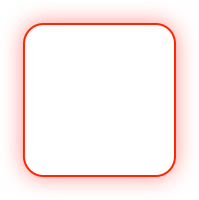
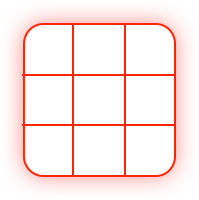
Battlefield: Can calculate grid zone hit detection

Changed region(s): [[0.1206, 0.12, 0.8744, 0.87]]

diff --git a/ttt_scene_battlefield.cpp b/ttt_scene_battlefield.cpp
@@ -5,6 +5,10 @@ SceneBattlefield::SceneBattlefield(sf::RenderWindow* xwindow, std::vector<sf::Fo
 	window = xwindow;
 	ttt_fonts = xttt_fonts;
 
+	// Create a new game instance
+	instance = new TTT_Instance();
+	std::cout << "Game instance created in battlefield" << std::endl;
+
 	// Some RenderWindow calculations
 	sf::Vector2f window_size_v2f(window->getSize());
 
@@ -25,8 +29,7 @@ SceneBattlefield::SceneBattlefield(sf::RenderWindow* xwindow, std::vector<sf::Fo
 	x_marker.setSize( sf::Vector2f(x_marker_texture_size.x, x_marker_texture_size.y) );
 	x_marker.setTextureRect( sf::IntRect(0, 0, x_marker_texture_size.x, x_marker_texture_size.y) );
 
-		//testing
-		x_marker.setPosition(getGridCoordinates(3,3));
+	x_marker.setPosition(getGridCoordinates(8,8));
 
 	sf::Texture* o_marker_texture = TTTHelpers::load_texture("assets/images/o-marker.png");
 	sf::Vector2u o_marker_texture_size = o_marker_texture->getSize();
@@ -36,10 +39,27 @@ SceneBattlefield::SceneBattlefield(sf::RenderWindow* xwindow, std::vector<sf::Fo
 	o_marker.setTextureRect( sf::IntRect(0, 0, o_marker_texture_size.x, o_marker_texture_size.y) );
 
 	// Create mouse cursors
+	mouse_cursor = x_marker;
+	mouse_cursor.setTexture((instance->getCurrentPlayer() == 'X') ? x_marker_texture : o_marker_texture);
 
 	// Create active halos
+	sf::Texture* x_active_halo_texture = TTTHelpers::load_texture("assets/images/x-active-halo-bg.png");
+	sf::Texture* o_active_halo_texture = TTTHelpers::load_texture("assets/images/o-active-halo-bg.png");
+
+	sf::Vector2u x_active_halo_texture_size = x_active_halo_texture->getSize();
+
+	x_active_halo.setTexture(x_active_halo_texture);
+	x_active_halo.setSize( sf::Vector2f(x_active_halo_texture_size.x, x_active_halo_texture_size.y) );
+	x_active_halo.setTextureRect( sf::IntRect(0, 0, x_active_halo_texture_size.x, x_active_halo_texture_size.y) );
+
+	o_active_halo = x_active_halo;
+	o_active_halo.setTexture(o_active_halo_texture);
 
 	// Create hinting halos
+
+	// Create grid hitzones for event handling
+
+
 }
 
 int SceneBattlefield::handle(sf::Event* xevent)
@@ -47,24 +67,61 @@ int SceneBattlefield::handle(sf::Event* xevent)
 	int new_scene = 1;
 	event = xevent;
 
+	// Things to watch for mouse movement:
+	// - Cursor tracking
+	// - Cursor gray out for invalid hit zone 
+	// - Halo hinting for grids
+	if (event->type == sf::Event::MouseMoved)
+	{
+		// Mouse Cursor
+		sf::Vector2f mouse_position = static_cast<sf::Vector2f>(sf::Mouse::getPosition(*window));
+
+		sf::Vector2f cursor_position = mouse_position;
+		cursor_position.x = cursor_position.x - mouse_cursor.getSize().x / 2;
+		cursor_position.y = cursor_position.y - mouse_cursor.getSize().y / 2;
+		mouse_cursor.setPosition(cursor_position);
+
+		// Grid hit
+		std::cout << "Board " << getGridHit(mouse_position)[0] << " Grid " << getGridHit(mouse_position)[1] << std::endl;
+	}
+
+	// Things to watch for mouse click:
+	// - Placement of markers
+	if (event->type == sf::Event::MouseButtonReleased)
+	{
+
+	}
+
 	return new_scene;
 }
 
 void SceneBattlefield::render()
 {
+	// Draw mouse cursor
+	window->setMouseCursorVisible(false);
+
+
 	// Draw mainboard
 	window->draw( battle_board );
 
-	window->draw(x_marker);
+	// Draw active halo
+
+	// Draw exising markers
+
+	// Draw hinting halos
+
+	// Draw cursors
+	window->draw(mouse_cursor);
 }
 
+// Given the ID of board and grid, return the coordinates for renderer
 sf::Vector2f SceneBattlefield::getGridCoordinates(int board_id, int grid_id)
 {
 	// sf::Vector2u coordinates;
 
 	// Board level
-	float top_left_x = 150;
-	float top_left_y = 40;
+	float top_left_x = 147;
+	float top_left_y = 37;
 
 	int delta_board_x = 173;
 	int delta_board_y = 183;
@@ -94,3 +151,109 @@ sf::Vector2f SceneBattlefield::getGridCoordinates(int board_id, int grid_id)
 
 	return sf::Vector2f(top_left_x, top_left_y);
 }
+
+// Given the mouse coordinates and try to determine whether a grid has been hit
+std::vector<int> SceneBattlefield::getGridHit(const sf::Vector2f& mouse_coords)
+{
+	int hit_x = mouse_coords.x, hit_y = mouse_coords.y;
+
+	int top_left_x = 147, top_left_y = 37;
+	int delta_board_x = 173, delta_board_y = 183;
+	int delta_grid_x = 50, delta_grid_y = 50;
+
+	std::vector<int> board_grid(2, -1);
+
+	// Column 1 board
+	if (hit_x >= top_left_x && hit_x <= top_left_x + 3 * delta_grid_x)
+	{
+		board_grid[0] = 0;
+	}
+	// Column 2 board
+	else if (hit_x >= top_left_x + delta_board_x && hit_x <= top_left_x + delta_board_x + 3 * delta_grid_x)
+	{
+		board_grid[0] = 1;
+	}
+	// Column 3 board
+	else if (hit_x >= top_left_x + 2 * delta_board_x && hit_x <= top_left_x + 2 * delta_board_x + 3 * delta_grid_x ) {
+		board_grid[0] = 2;
+	}
+	// Oops, out of board!
+	else {
+		board_grid[0] = -1;
+
+		// Short circuit
+		return board_grid;
+	}
+
+	// Row 1 board
+	if (hit_y >= top_left_y && hit_y <= top_left_y + 3 * delta_grid_y)
+	{
+		// board_grid[0] = 0;
+	}
+	// Row 2 board
+	else if (hit_y >= top_left_y + delta_board_y && hit_y <= top_left_y + delta_board_y + 3 * delta_grid_y)
+	{
+		board_grid[0] += 3;
+	}
+	// Row 3 board
+	else if (hit_y >= top_left_y + 2 * delta_board_y && hit_y <= top_left_y + 2 * delta_board_y + 3 * delta_grid_y ) {
+		board_grid[0] += 6;
+	}
+	// Oops, out of board!
+	else {
+		board_grid[0] = -1;
+
+		// Short circuit again
+		return board_grid;
+	}
+
+	// Before we calculate grid, we minus off the hit coords
+
+	if (board_grid[0] % 3 == 0) hit_x -= top_left_x;
+	if (board_grid[0] % 3 == 1) hit_x -= top_left_x + delta_board_x;
+	if (board_grid[0] % 3 == 2) hit_x -= top_left_x + 2 * delta_board_x;
+
+	if (board_grid[0] / 3 == 0) hit_y -= top_left_y;
+	if (board_grid[0] / 3 == 1) hit_y -= top_left_y + delta_board_y;
+	if (board_grid[0] / 3 == 2) hit_y -= top_left_y + 2 * delta_board_y;
+
+	// Calculate grid now
+	if (hit_x <= delta_grid_x)
+	{
+		board_grid[1] = 0;
+	}
+	else if (hit_x > 1 * delta_grid_x && hit_x <= 2 * delta_grid_x)
+	{
+		board_grid[1] = 1;
+	}
+	else if (hit_x > 2 * delta_grid_x && hit_x <= 3 * delta_grid_x)
+	{
+		board_grid[1] = 2;
+	}
+	else
+	{
+		board_grid[1] = -1;
+	}
+
+	// grid Y
+	if (hit_y <= delta_grid_y)
+	{
+		// board_grid[1] += 0;
+	}
+	else if (hit_y > 1 * delta_grid_y && hit_y <= 2 * delta_grid_y)
+	{
+		board_grid[1] += 3;
+	}
+	else if (hit_y > 2 * delta_grid_y && hit_y <= 3 * delta_grid_y)
+	{
+		board_grid[1] += 6;
+	}
+	else
+	{
+		board_grid[1] = -1;
+	}
+
+	return board_grid;
+}
+
+// Halo Highlighter

diff --git a/ttt_instance.cpp b/ttt_instance.cpp
@@ -23,17 +23,23 @@ TTT_Instance::TTT_Instance()
 	// Wipe the game clean
 	for (int board_id = 0; board_id < 9; board_id++)
 	{
+		vector< char > board;
+
 		for (int grid_id = 0; grid_id < 9; grid_id++)
 		{
-			main_board[ board_id ][ grid_id ] = ' ';
+			board.push_back(' ');
 		}
+
+		main_board.push_back(board);
 	}
 
 	// Random board
 	current_board_id = rand() % 8;
 
 	// Player O starts first
-	current_player = 'O';
+	current_player = 'X';
+
+	std::cout << "TTT_INSTANCE constructed" << std::endl;
 }
 
 std::vector< std::vector<char> > TTT_Instance::getMainBoard()
@@ -70,12 +76,18 @@ char TTT_Instance::getGrid(int board_id, int grid_id)
 	return main_board[ board_id ][ grid_id ];
 }
 
+// Who is playing?
+char TTT_Instance::getCurrentPlayer()
+{
+	return current_player;
+}
+
 // For each board, check if O and X took down either of the 3 verticals, 3 horizontals or the 2 diagonals.
 bool TTT_Instance::getWinningStatus()
 {
 	for (int board_id = 0; board_id < 9; board_id++)
 	{
-
+		// For each board
 
 	}
 }

diff --git a/main.cpp b/main.cpp
@@ -25,12 +25,9 @@ int main()
 	window->setKeyRepeatEnabled(false);
 
 	// Initiate scene director (graphics dpt)
-	cout << "Invoking scene director... " << endl;
 	SceneDirector director(window);
-	cout << "Scene director is up" << endl;
 
 	// Here goes the actual loop
-	cout << "Starting main loop... " << endl;
 	while (window->isOpen())
 	{
 		// The obligatory event handler
@@ -44,7 +41,6 @@ int main()
 			// Let scene director delegate event handling to other scenes
 			if (director.getCurrentScene() >= 0 and director.getCurrentScene() <= 4)
 			{
-				cout << "Delegating event handling to director... " << endl;
 				director.handle(event);
 			}
 			else
@@ -57,9 +53,7 @@ int main()
 		window->clear(sf::Color::White);
 
 		// Let director render
-		cout << "Calling render... " << endl;
 		director.render();
-		cout << "Rendering done! " << endl;
 
 		// Finalise loop
 		window->display();

diff --git a/ttt_scene_battlefield.hpp b/ttt_scene_battlefield.hpp
@@ -5,6 +5,7 @@
 #include <cstdlib>
 
 #include "ttt_helpers.hpp"
+#include "ttt_instance.hpp"
 
 using namespace std;
 
@@ -19,6 +20,9 @@ class SceneBattlefield
 		sf::Event* event;
 		std::vector< sf::Font* >* ttt_fonts;
 
+		// Instance initiation
+		TTT_Instance* instance;
+
 		// Visual Elements
 		sf::RectangleShape battle_board
 			, x_marker
@@ -26,7 +30,8 @@ class SceneBattlefield
 			, x_active_halo
 			, o_active_halo
 			, x_hint_halo
-			, o_hint_halo;
+			, o_hint_halo
+			, mouse_cursor;
 
 	public:
 		SceneBattlefield(sf::RenderWindow* xwindow, std::vector<sf::Font*>* xttt_fonts);
@@ -35,6 +40,7 @@ class SceneBattlefield
 		int handle_mouse_click(int click_X, int click_y);
 
 		sf::Vector2f getGridCoordinates(int board_id, int grid_id);
+		std::vector<int> getGridHit(const sf::Vector2f& mouse_coords);
 };
 
 #endif

diff --git a/ttt_scene_director.cpp b/ttt_scene_director.cpp
@@ -30,6 +30,7 @@ SceneDirector::SceneDirector(sf::RenderWindow* xwindow)
 	std::cout << "Scene menu created in director... "<< std::endl;
 
 	scene_battlefield = new SceneBattlefield(window, &ttt_fonts);
+	std::cout << "Scene battlefield created in director... " << std::endl;
 
 	// Set graphics state
 	setCurrentScene(0);

diff --git a/ttt_scene_menu.cpp b/ttt_scene_menu.cpp
@@ -47,7 +47,7 @@ SceneMenu::SceneMenu(sf::RenderWindow* xwindow, std::vector<sf::Font*>* xttt_fon
 // INSIDE LOOP
 void SceneMenu::render()
 {
-	std::cout<<"DRAW"<<std::endl;
+	window->setMouseCursorVisible(true);
 
 	// Draw heading 1
 	window->draw(heading1);

diff --git a/ttt_instance.hpp b/ttt_instance.hpp
@@ -15,6 +15,7 @@ class TTT_Instance
 		TTT_Instance();
 		bool setGrid(int grid_id);
 		char getGrid(int board_id, int grid_id);
+		char getCurrentPlayer();
 		std::vector< std::vector<char> > getMainBoard();
 		bool getWinningStatus();
 };
